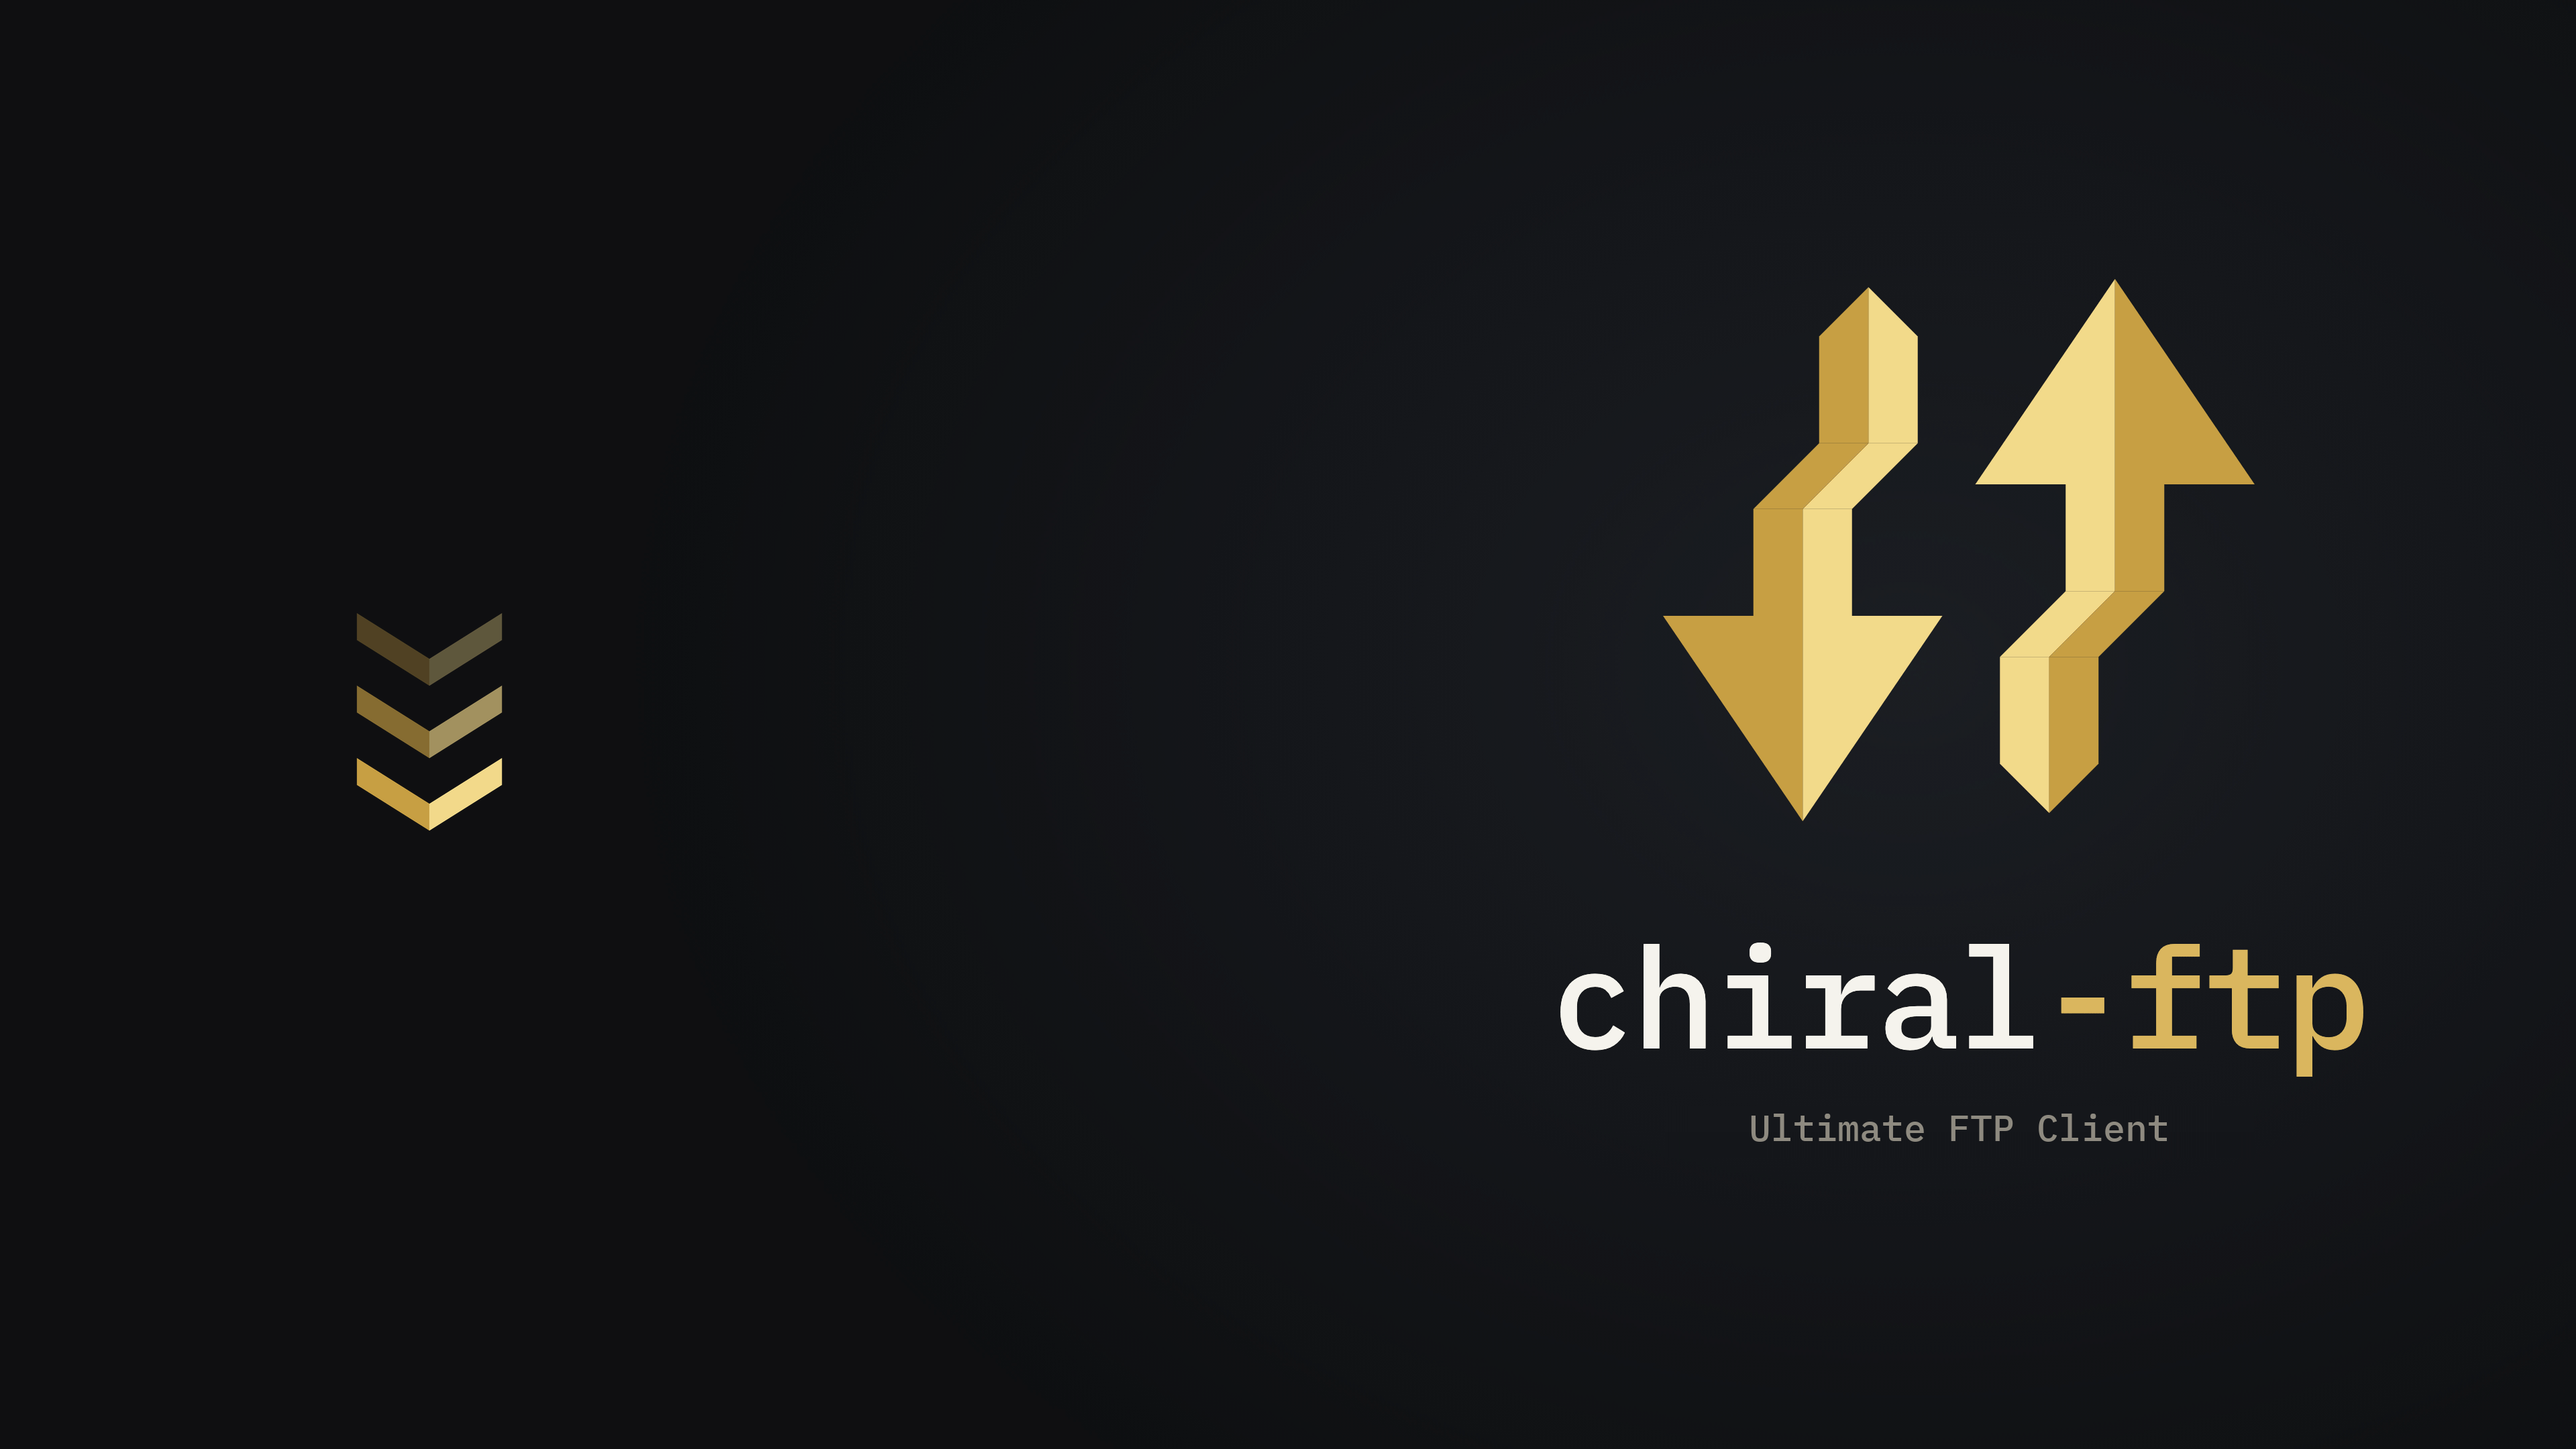
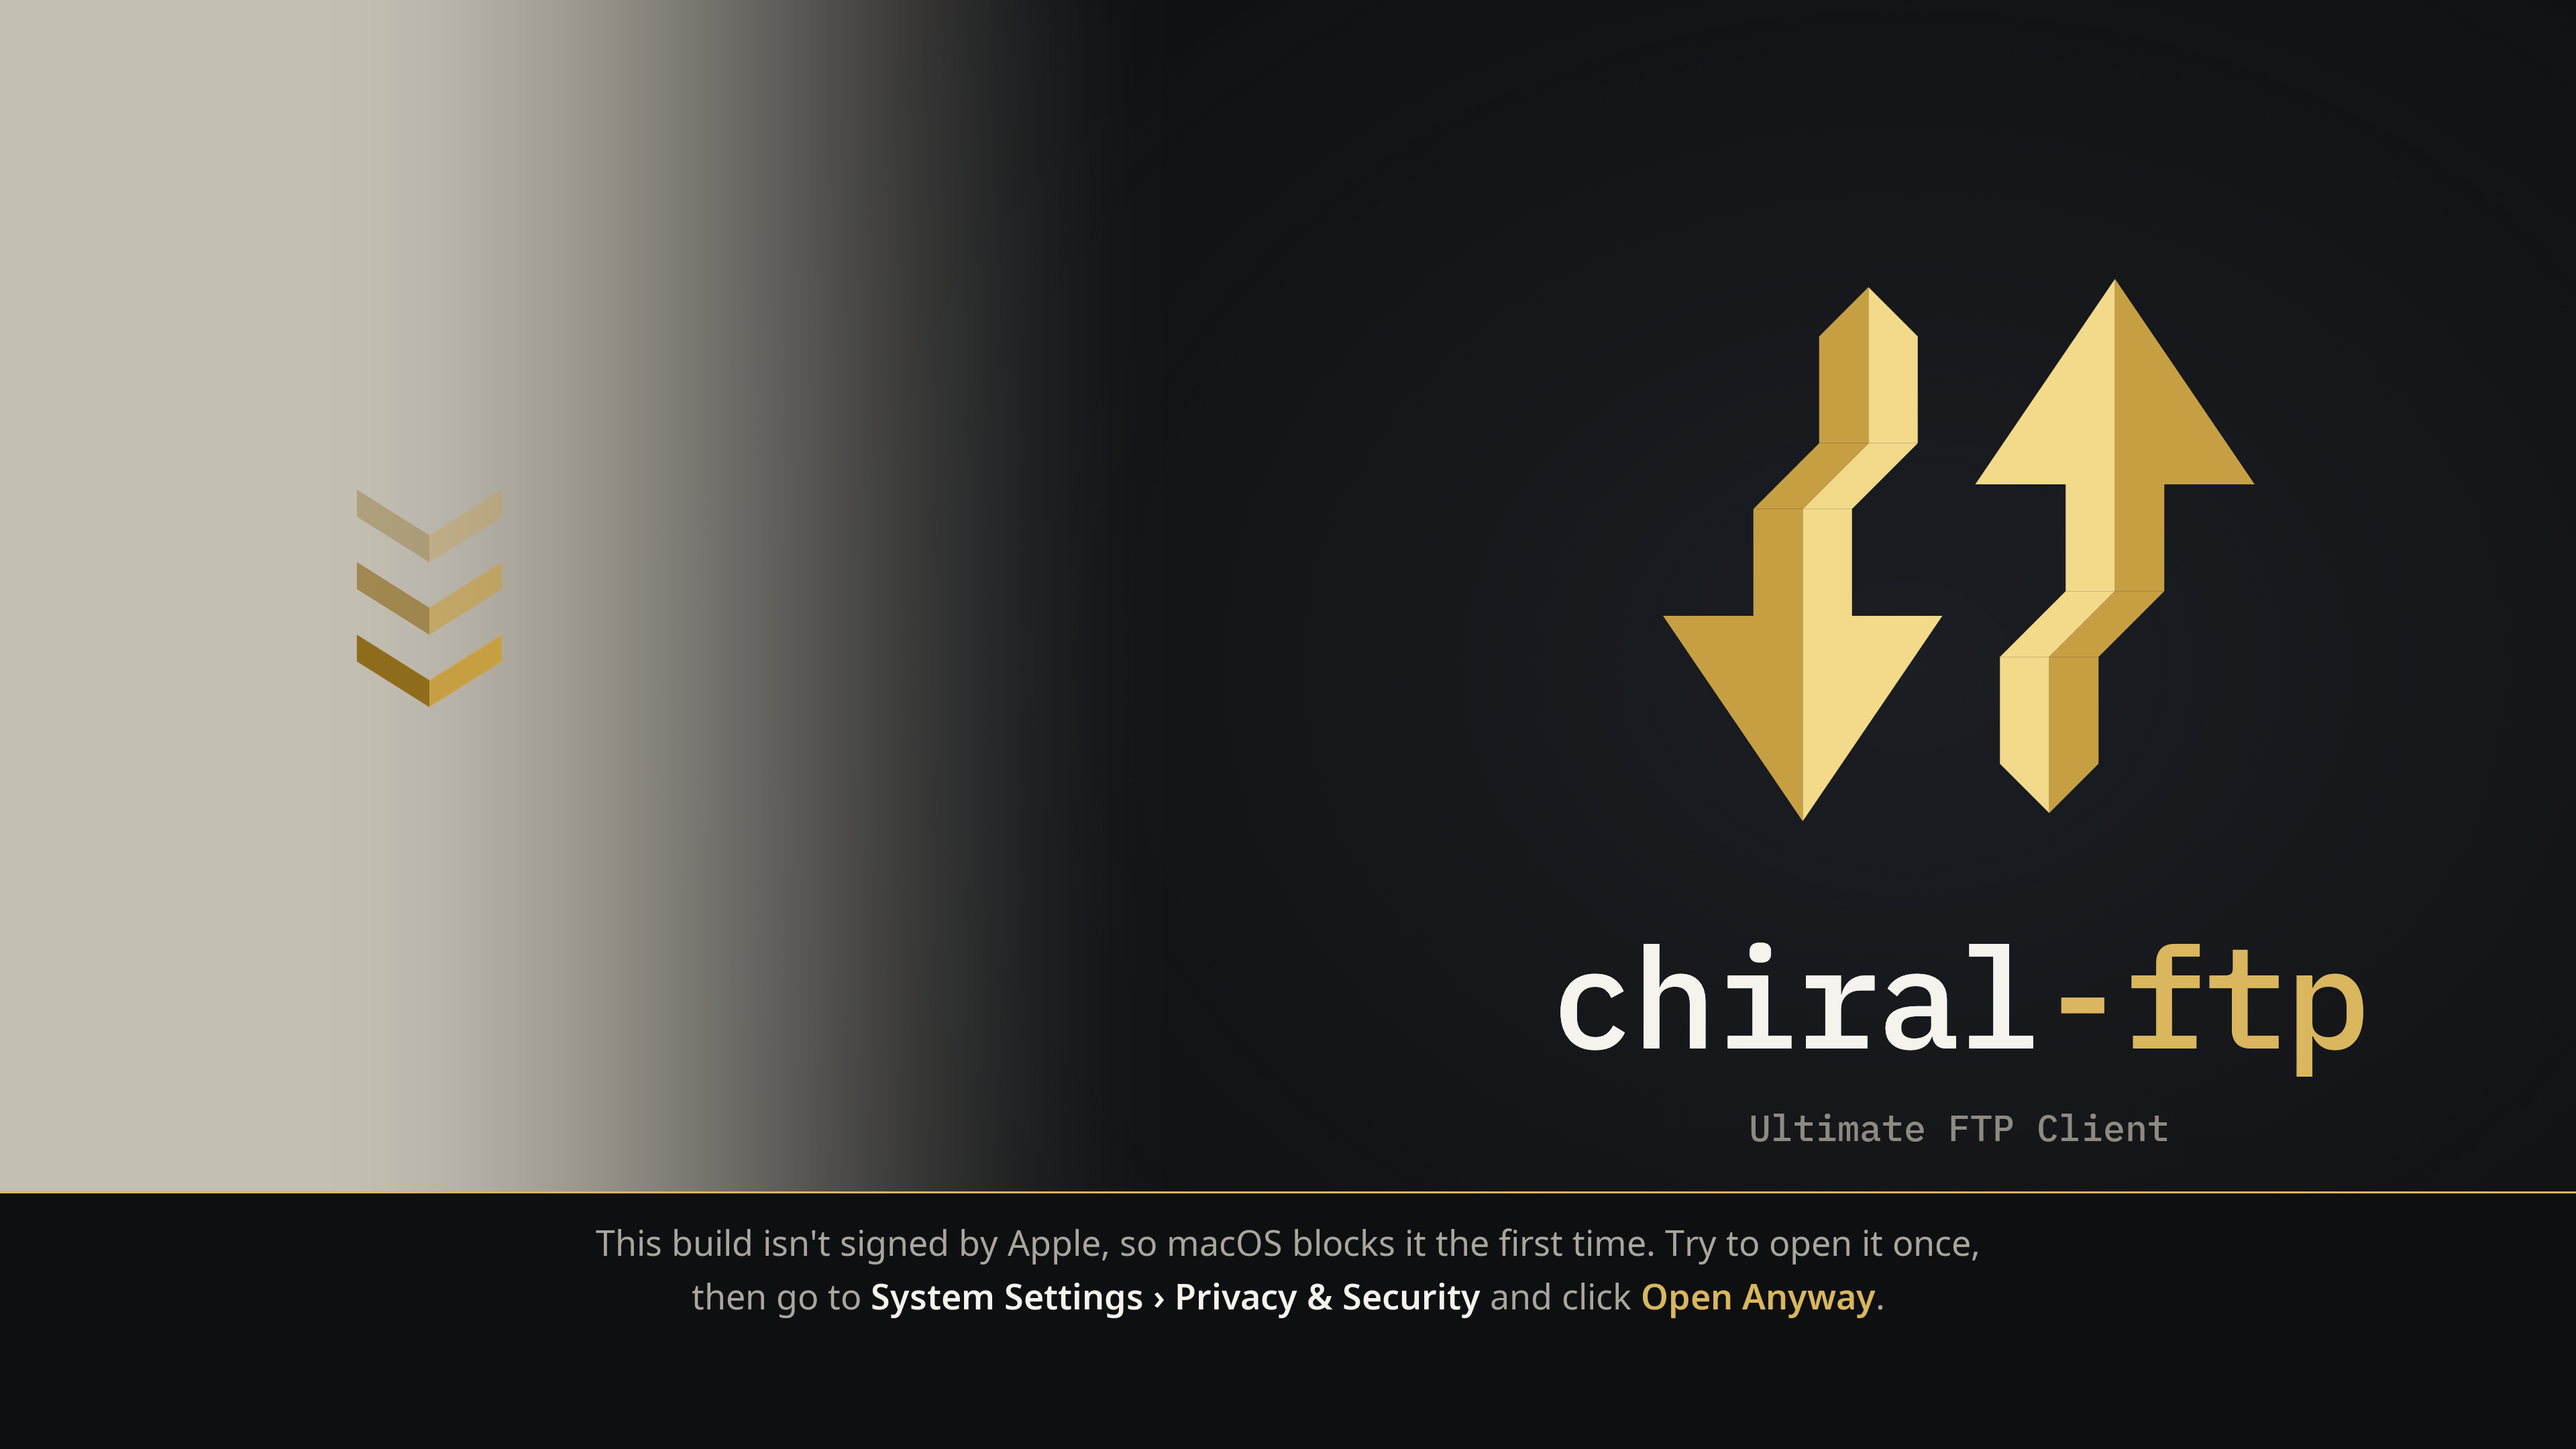
Mac DMGs

diff --git a/tools/make-dmg-background.py b/tools/make-dmg-background.py
@@ -17,16 +17,26 @@ ROOT = os.path.dirname(os.path.dirname(os.path.abspath(__file__)))
 SRC = os.path.join(ROOT, "docs", "screenshots", "Mockups", "ps5_background.png")
 OUT = os.path.join(ROOT, "docs", "screenshots", "Mockups", "mac_dmg_background.png")
 FONT = os.path.join(ROOT, "assets", "fonts", "IBMPlexMono-Medium.ttf")
+SANS = os.path.join(ROOT, "assets", "fonts", "NotoSans-Regular.ttf")
+SANS_BOLD = os.path.join(ROOT, "assets", "fonts", "NotoSans-SemiBold.ttf")
 
 SCALE = 4                  # pixels per window point
 COLUMN_X = 160             # both icons' centre, in points
-APP_Y, APPLICATIONS_Y = 120, 390
-ICON = 128                 # icon size in points
+APP_Y, APPLICATIONS_Y = 88, 330
+ICON = 112                 # icon size in points
 LABEL = 28                 # the name under an icon, with its gap
+FOOTER_TOP = 444           # the note's band, to the bottom (Finder's title
+                           # bar hides about the last 28 points)
 
-# The mark's faces (assets/brand/chiral-ftp-mark.svg). Its down arrow has the
-# deep one on the left, so the chevrons do too.
-LIGHT, DARK = (0xF2, 0xD9, 0x8A), (0xC7, 0x9F, 0x43)
+# assets/brand/BRAND.md's colours. Finder writes the icons' names in black,
+# so the icons sit on the light background, which darkens into the dark one
+# before the mark; the chevrons take the mark's light-background faces, the
+# deep one on the left as in its down arrow.
+PAPER = (0xC4, 0xBF, 0xB3)  # muted: enough for black names, easy on the eyes
+INK, MUTED, GOLD = (0xF5, 0xF3, 0xEC), (0xA9, 0xA6, 0x9C), (0xD9, 0xB6, 0x5E)
+BAND = (0x0E, 0x0F, 0x11)
+LIGHT, DARK = (0xC7, 0x9F, 0x43), (0x8F, 0x6B, 0x1C)
+LIGHT_UNTIL, DARK_FROM = 0.12, 0.46  # of the width: all paper, then none
 
 # The PS5 picture's tagline, in pixels: IBM Plex Mono Medium at 55 px, this
 # grey, its ink in this box (measured from ps5_background.png).
@@ -91,12 +101,52 @@ def chevrons(picture):
     picture.alpha_composite(layer, (round((COLUMN_X - half) * SCALE) - 1, round(first * SCALE) - 1))
 
 
+def lighten(picture):
+    """Paper on the left, eased into the picture's dark by DARK_FROM."""
+    w, h = picture.size
+    ramp = Image.new("L", (w, 1))
+    for x in range(w):
+        t = min(1.0, max(0.0, (x / w - LIGHT_UNTIL) / (DARK_FROM - LIGHT_UNTIL)))
+        ramp.putpixel((x, 0), round(255 * (1 - t * t * (3 - 2 * t))))  # smoothstep
+    paper = Image.new("RGBA", (w, h), PAPER + (255,))
+    paper.putalpha(ramp.resize((w, h)))
+    picture.alpha_composite(paper)
+
+
+def footer(picture):
+    """The band at the bottom: how to open an app Apple hasn't notarized."""
+    w, h = picture.size
+    top = FOOTER_TOP * SCALE
+    draw = ImageDraw.Draw(picture)
+    draw.rectangle((0, top, w, h), fill=BAND + (255,))
+    draw.rectangle((0, top, w, top + SCALE // 2), fill=GOLD + (255,))  # a hairline
+    size = 13 * SCALE
+    regular, bold = ImageFont.truetype(SANS, size), ImageFont.truetype(SANS_BOLD, size)
+    lines = [
+        [("This build isn't signed by Apple, so macOS blocks it the first time. Try to open it once,", regular, MUTED)],
+        [("then go to ", regular, MUTED), ("System Settings › Privacy & Security", bold, INK),
+         (" and click ", regular, MUTED), ("Open Anyway", bold, GOLD), (".", regular, MUTED)],
+    ]
+    # Centred in the band's visible part.
+    leading = 20 * SCALE
+    first = (top + (512 * SCALE - top) / 2) - leading / 2
+    for n, parts in enumerate(lines):
+        width = sum(font.getlength(text) for text, font, _ in parts)
+        x = (w - width) / 2
+        y = first + n * leading
+        for text, font, colour in parts:
+            draw.text((x, y), text, font=font, fill=colour + (255,), anchor="ls")
+            x += font.getlength(text)
+
+
 def main():
     picture = Image.open(SRC).convert("RGBA")
     if picture.size != (960 * SCALE, 540 * SCALE):
         raise SystemExit(f"{SRC} is {picture.size}, not 3840x2160")
+    lighten(picture)
     retitle(picture)
     chevrons(picture)
+    footer(picture)
     picture.convert("RGB").save(OUT, optimize=True)
     print(OUT)
 

diff --git a/assets/brand/BRAND.md b/assets/brand/BRAND.md
@@ -27,7 +27,7 @@ Two stepped arrows, one up and one down: the down arrow is the up arrow rotated 
 - `chiral-ftp-logo-light.svg`: mark + wordmark, black `chiral` and gold `-ftp`, for light backgrounds. Transparent.
 - `chiral-ftp-icon.svg`: 512 px app icon, rounded square `#0E0F11` with the mark centred.
 - `docs/screenshots/Mockups/ps5_background.png`: the PS5's launch picture (`platform/ps5/sce_sys/pic0.dds`/`pic1.dds`) as a PNG, 3840x2160.
-- `docs/screenshots/Mockups/mac_dmg_background.png`: the Mac disk image's window, the same picture with "Ultimate FTP Client" as its tagline and gold chevrons from chiral-ftp.app down to Applications on its left. Made by `tools/make-dmg-background.py`; `tools/make-dmg.sh` scales it to the 960x540 window and puts the icons where the picture expects them.
+- `docs/screenshots/Mockups/mac_dmg_background.png`: the Mac disk image's window, the same picture lightened on the left (a muted `#C4BFB3`, so Finder's black icon names read), with "Ultimate FTP Client" as its tagline, deep-gold chevrons from chiral-ftp.app down to Applications, and a band at the bottom on opening an unsigned app (Privacy & Security › Open Anyway). Made by `tools/make-dmg-background.py`; `tools/make-dmg.sh` scales it to the 960x540 window and puts the icons where the picture expects them.
 
 The two lockup SVGs use live `<text>`, so they need IBM Plex Mono installed or loaded (e.g. via the Google Fonts link above) to render in the exact face. The mark files and icon contain no text and render identically everywhere.
 

diff --git a/docs/AGENT-NOTES.md b/docs/AGENT-NOTES.md
@@ -1042,8 +1042,8 @@ it without asking.
   made, as a plain window, with a warning. Its picture is
   `docs/screenshots/Mockups/mac_dmg_background.png`, drawn by
   `tools/make-dmg-background.py` with chevrons where `make-dmg.sh` puts the
-  icons (960x540 points, the app at 160,120 and Applications at 160,390,
-  128 pt icons): the two hold the same numbers.
+  icons (960x540 points, the app at 160,88 and Applications at 160,330,
+  112 pt icons): the two hold the same numbers.
 
 ## 5c. Probe first
 
